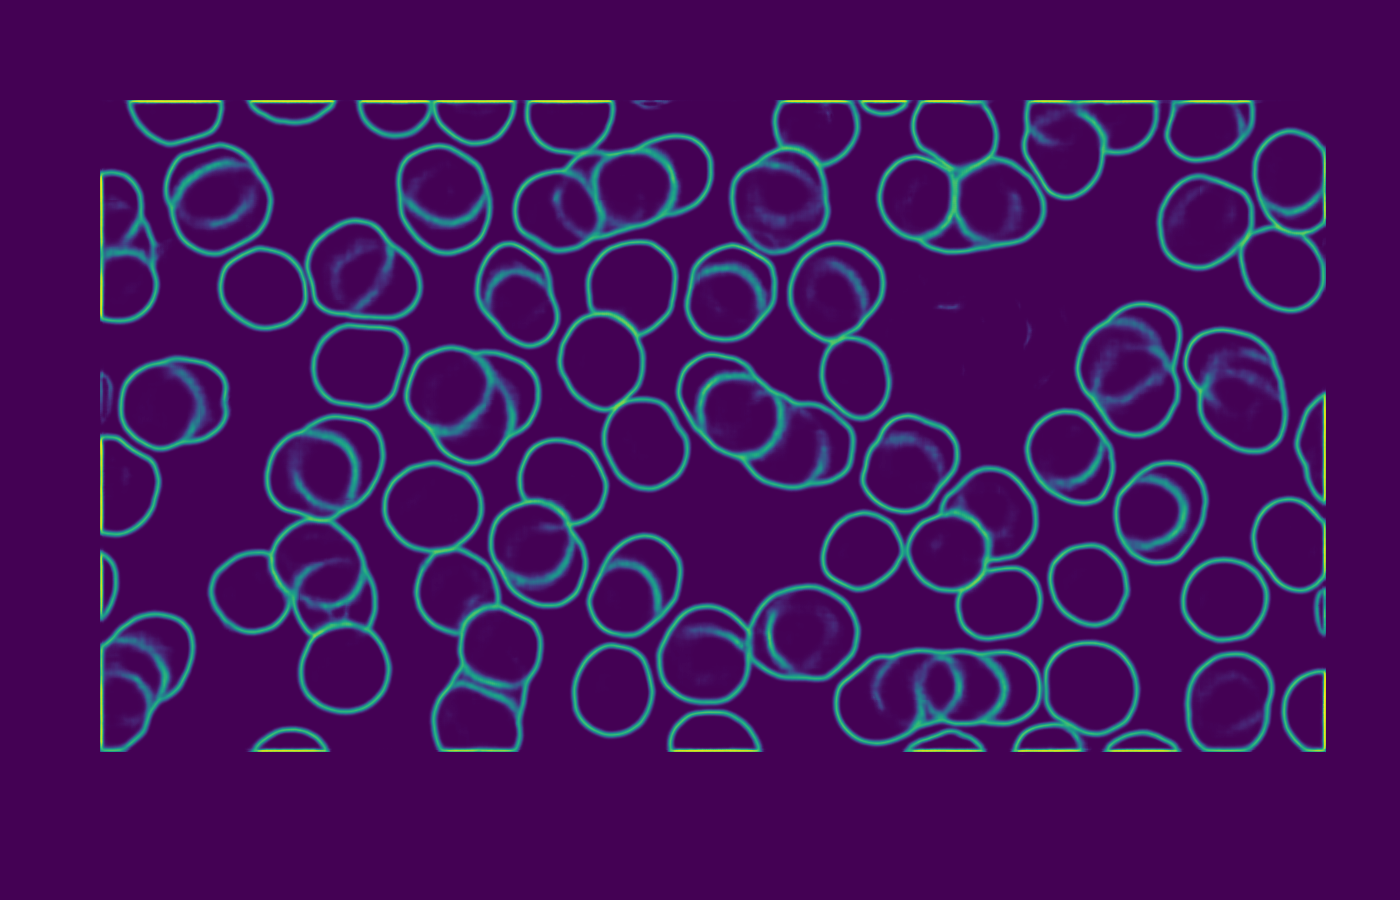
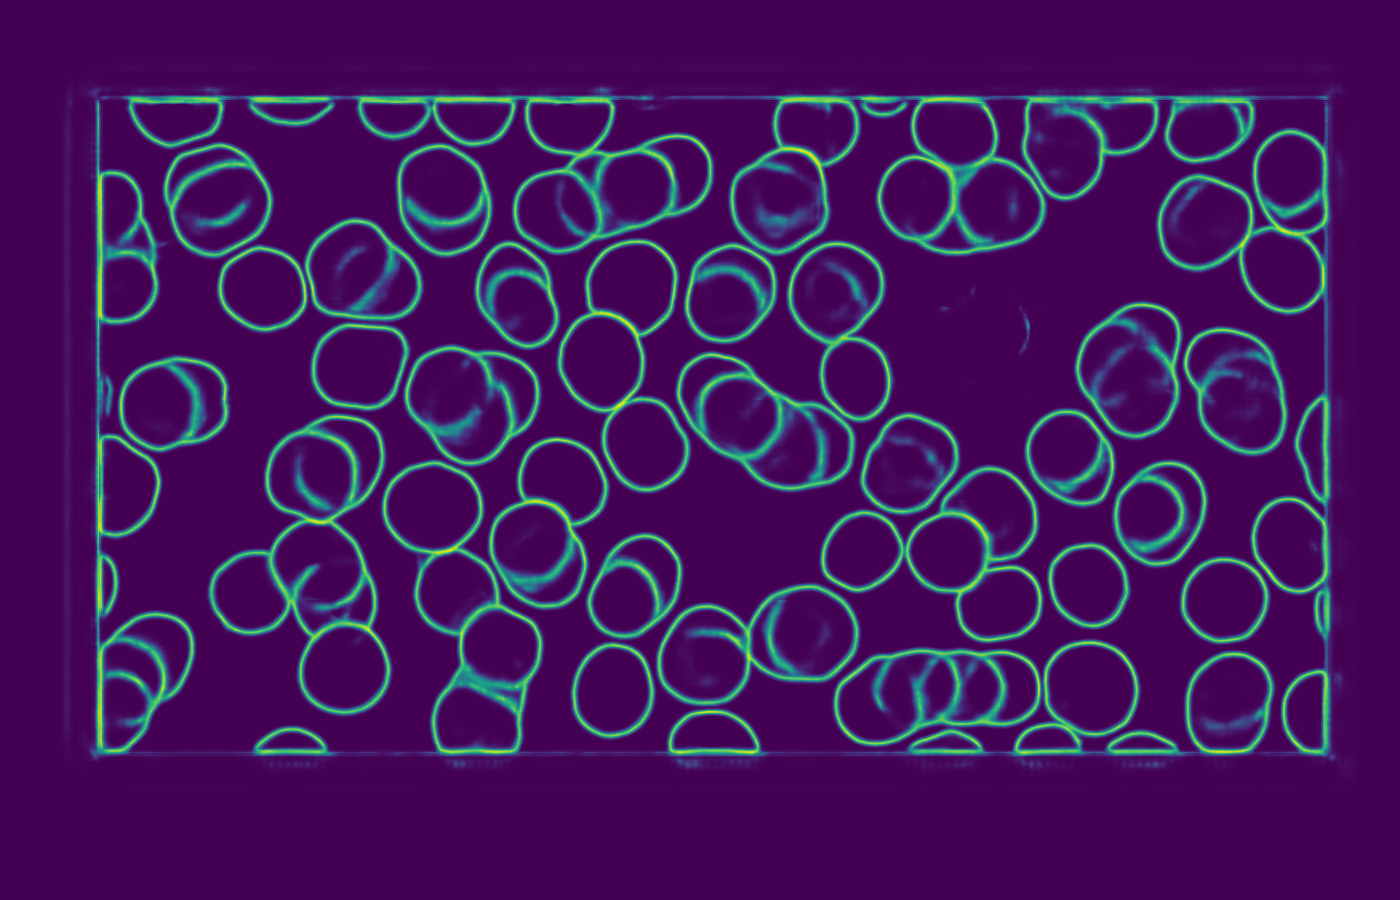
Added multiple new output images!

diff --git a/src/run.py b/src/run.py
@@ -9,7 +9,7 @@ import model, data
 
 
 # train the model
-def train(model_name = 'binary_crossentropy'):
+def train(model_name='binary_crossentropy'):
     train_img_files = glob.glob('data/train/*.jpg')
     test_img_files = glob.glob('data/test/*.jpg')
 
@@ -46,8 +46,8 @@ def concat(imgs):
 
 
 # predict (segment) image and save a sample output
-def predict(image = glob.glob('data/test/Im037_0.jpg'),
-            model_name = 'binary_crossentropy'):
+def predict(image=glob.glob('data/test/Im037_0.jpg'),
+            model_name='binary_crossentropy'):
     do_unet = model.get_do_unet()
 
     # Check for existing weights
@@ -77,6 +77,7 @@ def predict(image = glob.glob('data/test/Im037_0.jpg'),
     # save predicted mask and edge
     plt.imsave('output/mask.png', new_mask)
     plt.imsave('output/edge.png', new_edge)
+    plt.imsave('output/edge-mask.png', new_mask - new_edge)
 
     # organize results into one figure
     fig = plt.figure(figsize=(25, 12), dpi=80)
@@ -102,7 +103,7 @@ def predict(image = glob.glob('data/test/Im037_0.jpg'),
 
 
 # evaluate model accuracies (mask accuracy and edge accuracy)
-def evaluate(model_name = 'binary_crossentropy'):
+def evaluate(model_name='binary_crossentropy'):
     train_img_files = glob.glob('data/train/*.jpg')
     test_img_files = glob.glob('data/test/*.jpg')
 
@@ -124,28 +125,28 @@ def evaluate(model_name = 'binary_crossentropy'):
 
 
 # threshold image using otsu's threshold
-def threshold(img = 'output/edge.png'):
-    if not os.path.exists(f'{img}'):
+def threshold(img='edge.png'):
+    if not os.path.exists(f'output/{img}'):
         print('Image does not exist!')
         return
 
-    img = cv2.imread(img)
+    image = cv2.imread(f'output/{img}')
 
     # convert to grayscale and apply otsu's thresholding
-    img = cv2.cvtColor(img, cv2.COLOR_BGR2GRAY)
-    otsu_threshold, img = cv2.threshold(img, 0, 255, cv2.THRESH_BINARY + cv2.THRESH_OTSU,)
+    image = cv2.cvtColor(image, cv2.COLOR_BGR2GRAY)
+    otsu_threshold, image = cv2.threshold(image, 0, 255, cv2.THRESH_BINARY + cv2.THRESH_OTSU,)
 
     # save the resulting thresholded image
-    plt.imsave('output/threshold_edge.png', img)
+    plt.imsave(f'output/threshold_{img}', image)
 
 
 # count how many cells from the predicted edges
-def count_circles(img = 'output/edge.png'):
-    if not os.path.exists(f'{img}'):
+def count_circles(img='edge.png'):
+    if not os.path.exists(f'output/{img}'):
         print('Image does not exist!')
         return
 
-    img = cv2.imread(img)
+    img = cv2.imread(f'output/{img}')
 
     # convert to grayscale and apply Circle Hough Transform (CHT)
     img = cv2.cvtColor(img, cv2.COLOR_BGR2GRAY)
@@ -170,8 +171,8 @@ def count_circles(img = 'output/edge.png'):
 
 
 if __name__ == '__main__':
-    evaluate('binary_crossentropy')
+    # train('binary_crossentropy')
+    # evaluate('binary_crossentropy')
     predict(model_name='binary_crossentropy')
-    # threshold()
-    # count_circles()
-    # train('focal_tversky')
+    threshold(img='edge.png')
+    count_circles(img='edge.png')
